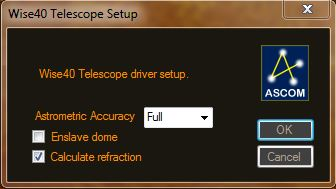
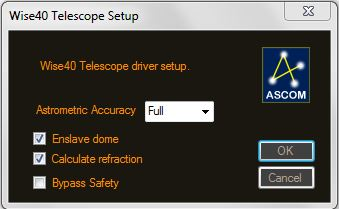
Added telescope safety bypass

diff --git a/Telescope/SetupDialogForm.designer.cs b/Telescope/SetupDialogForm.designer.cs
@@ -30,6 +30,7 @@ namespace ASCOM.Wise40 //.Telescope
         /// </summary>
         private void InitializeComponent()
         {
+            this.components = new System.ComponentModel.Container();
             this.cmdOK = new System.Windows.Forms.Button();
             this.cmdCancel = new System.Windows.Forms.Button();
             this.descriptionLabel = new System.Windows.Forms.Label();
@@ -38,6 +39,8 @@ namespace ASCOM.Wise40 //.Telescope
             this.acuracyLabel = new System.Windows.Forms.Label();
             this.checkBoxEnslaveDome = new System.Windows.Forms.CheckBox();
             this.checkBoxCalculateRefraction = new System.Windows.Forms.CheckBox();
+            this.checkBoxBypassSafety = new System.Windows.Forms.CheckBox();
+            this.toolTip1 = new System.Windows.Forms.ToolTip(this.components);
             ((System.ComponentModel.ISupportInitialize)(this.picASCOM)).BeginInit();
             this.SuspendLayout();
             // 
@@ -47,7 +50,7 @@ namespace ASCOM.Wise40 //.Telescope
             this.cmdOK.BackColor = System.Drawing.Color.FromArgb(((int)(((byte)(64)))), ((int)(((byte)(64)))), ((int)(((byte)(64)))));
             this.cmdOK.DialogResult = System.Windows.Forms.DialogResult.OK;
             this.cmdOK.ForeColor = System.Drawing.Color.FromArgb(((int)(((byte)(176)))), ((int)(((byte)(161)))), ((int)(((byte)(142)))));
-            this.cmdOK.Location = new System.Drawing.Point(248, 89);
+            this.cmdOK.Location = new System.Drawing.Point(248, 108);
             this.cmdOK.Name = "cmdOK";
             this.cmdOK.Size = new System.Drawing.Size(59, 24);
             this.cmdOK.TabIndex = 0;
@@ -61,7 +64,7 @@ namespace ASCOM.Wise40 //.Telescope
             this.cmdCancel.BackColor = System.Drawing.Color.FromArgb(((int)(((byte)(64)))), ((int)(((byte)(64)))), ((int)(((byte)(64)))));
             this.cmdCancel.DialogResult = System.Windows.Forms.DialogResult.Cancel;
             this.cmdCancel.ForeColor = System.Drawing.Color.FromArgb(((int)(((byte)(176)))), ((int)(((byte)(161)))), ((int)(((byte)(142)))));
-            this.cmdCancel.Location = new System.Drawing.Point(248, 115);
+            this.cmdCancel.Location = new System.Drawing.Point(248, 134);
             this.cmdCancel.Name = "cmdCancel";
             this.cmdCancel.Size = new System.Drawing.Size(59, 25);
             this.cmdCancel.TabIndex = 1;
@@ -71,7 +74,7 @@ namespace ASCOM.Wise40 //.Telescope
             // 
             // descriptionLabel
             // 
-            this.descriptionLabel.Location = new System.Drawing.Point(24, 34);
+            this.descriptionLabel.Location = new System.Drawing.Point(24, 24);
             this.descriptionLabel.Name = "descriptionLabel";
             this.descriptionLabel.Size = new System.Drawing.Size(165, 20);
             this.descriptionLabel.TabIndex = 2;
@@ -98,7 +101,7 @@ namespace ASCOM.Wise40 //.Telescope
             this.accuracyBox.Items.AddRange(new object[] {
             "Full",
             "Reduced"});
-            this.accuracyBox.Location = new System.Drawing.Point(136, 78);
+            this.accuracyBox.Location = new System.Drawing.Point(136, 70);
             this.accuracyBox.Name = "accuracyBox";
             this.accuracyBox.Size = new System.Drawing.Size(69, 21);
             this.accuracyBox.TabIndex = 8;
@@ -107,7 +110,7 @@ namespace ASCOM.Wise40 //.Telescope
             // acuracyLabel
             // 
             this.acuracyLabel.AutoSize = true;
-            this.acuracyLabel.Location = new System.Drawing.Point(24, 80);
+            this.acuracyLabel.Location = new System.Drawing.Point(24, 72);
             this.acuracyLabel.Name = "acuracyLabel";
             this.acuracyLabel.Size = new System.Drawing.Size(107, 13);
             this.acuracyLabel.TabIndex = 10;
@@ -135,12 +138,24 @@ namespace ASCOM.Wise40 //.Telescope
             this.checkBoxCalculateRefraction.Text = "Calculate refraction";
             this.checkBoxCalculateRefraction.UseVisualStyleBackColor = true;
             // 
+            // checkBoxBypassSafety
+            // 
+            this.checkBoxBypassSafety.AutoSize = true;
+            this.checkBoxBypassSafety.Location = new System.Drawing.Point(24, 144);
+            this.checkBoxBypassSafety.Name = "checkBoxBypassSafety";
+            this.checkBoxBypassSafety.Size = new System.Drawing.Size(93, 17);
+            this.checkBoxBypassSafety.TabIndex = 16;
+            this.checkBoxBypassSafety.Text = "Bypass Safety";
+            this.toolTip1.SetToolTip(this.checkBoxBypassSafety, "Dangerous!!!  Telescope will not perform safety checks!");
+            this.checkBoxBypassSafety.UseVisualStyleBackColor = true;
+            // 
             // TelescopeSetupDialogForm
             // 
             this.AutoScaleDimensions = new System.Drawing.SizeF(6F, 13F);
             this.AutoScaleMode = System.Windows.Forms.AutoScaleMode.Font;
             this.BackColor = System.Drawing.Color.FromArgb(((int)(((byte)(26)))), ((int)(((byte)(22)))), ((int)(((byte)(16)))));
-            this.ClientSize = new System.Drawing.Size(321, 152);
+            this.ClientSize = new System.Drawing.Size(321, 171);
+            this.Controls.Add(this.checkBoxBypassSafety);
             this.Controls.Add(this.checkBoxCalculateRefraction);
             this.Controls.Add(this.checkBoxEnslaveDome);
             this.Controls.Add(this.acuracyLabel);
@@ -173,5 +188,7 @@ namespace ASCOM.Wise40 //.Telescope
         private System.Windows.Forms.Label acuracyLabel;
         private System.Windows.Forms.CheckBox checkBoxEnslaveDome;
         private System.Windows.Forms.CheckBox checkBoxCalculateRefraction;
+        private System.Windows.Forms.CheckBox checkBoxBypassSafety;
+        private System.Windows.Forms.ToolTip toolTip1;
     }
 }

diff --git a/Telescope/WiseTele.cs b/Telescope/WiseTele.cs
@@ -2843,6 +2843,7 @@ namespace ASCOM.Wise40
                         Accuracy.Reduced;
                 _calculateRefraction = Convert.ToBoolean(driverProfile.GetValue(driverID, calculateRefractionProfileName, string.Empty, "true"));
                 _studyMotion = Convert.ToBoolean(driverProfile.GetValue(driverID, "StudyMotion", string.Empty, "false"));
+                _bypassSafety = Convert.ToBoolean(driverProfile.GetValue(driverID, "BypassSafety", string.Empty, "false"));
             }
 
             using (Profile driverProfile = new Profile())
@@ -2864,6 +2865,7 @@ namespace ASCOM.Wise40
                 driverProfile.WriteValue(driverID, astrometricAccuracyProfileName, wisesite.astrometricAccuracy == Accuracy.Full ? "Full" : "Reduced");
                 driverProfile.WriteValue(driverID, enslaveDomeProfileName, _enslaveDome.ToString());
                 driverProfile.WriteValue(driverID, calculateRefractionProfileName, _calculateRefraction.ToString());
+                driverProfile.WriteValue(driverID, "BypassSafety", _bypassSafety.ToString());
             }
 
             using (Profile driverProfile = new Profile())

diff --git a/Restore-ASCOM-Profiles/Program.cs b/Restore-ASCOM-Profiles/Program.cs
@@ -183,6 +183,7 @@ namespace Restore_ASCOM_Profiles
             string debugLevelProfileName = "DebugLevel";
             string studyMotionProfileName = "StudyMotion";
             string debugFileProfileName = "DebugFile";
+            string bypassSafetyProfileName = "BypassSafety";
             string debugFile = Const.topWise40Directory + "Logs/debug.txt";
             string refractionProfileName = "Calculate refraction";
             string minimalDomeTrackingMovementProfileName = "Minimal Dome Tracking Movement";
@@ -201,6 +202,7 @@ namespace Restore_ASCOM_Profiles
                 driverProfile.WriteValue(driverID, debugFileProfileName, debugFile);
                 driverProfile.WriteValue(driverID, refractionProfileName, mode == Mode.LCO ? false.ToString() : true.ToString());
                 driverProfile.WriteValue(driverID, minimalDomeTrackingMovementProfileName, "2.0");
+                driverProfile.WriteValue(driverID, bypassSafetyProfileName, "false");
             }
         }
 

diff --git a/Telescope/SetupDialogForm.cs b/Telescope/SetupDialogForm.cs
@@ -25,6 +25,7 @@ namespace ASCOM.Wise40 //.Telescope
             accuracyBox.SelectedItem = (wisesite.astrometricAccuracy == Accuracy.Full) ? 0 : 1;
             checkBoxEnslaveDome.Checked = wisetele._enslaveDome;
             checkBoxCalculateRefraction.Checked = wisetele._calculateRefraction;
+            checkBoxBypassSafety.Checked = wisetele.BypassSafety;
         }
 
         private void cmdOK_Click(object sender, EventArgs e) // OK button event handler
@@ -32,6 +33,7 @@ namespace ASCOM.Wise40 //.Telescope
             wisesite.astrometricAccuracy = accuracyBox.Text == "Full" ? Accuracy.Full : Accuracy.Reduced;
             wisetele._enslaveDome = checkBoxEnslaveDome.Checked;
             wisetele._calculateRefraction = checkBoxCalculateRefraction.Checked;
+            wisetele.BypassSafety = checkBoxBypassSafety.Checked;
         }
 
         private void cmdCancel_Click(object sender, EventArgs e) // Cancel button event handler

diff --git a/Telescope/SafetyMonitorTimer.cs b/Telescope/SafetyMonitorTimer.cs
@@ -83,7 +83,7 @@ namespace ASCOM.Wise40 //.Telescope
             set
             {
                 _enabled = value;
-                if (_enabled)
+                if (_enabled && !wisetele.BypassSafety)
                     _timer.Change(_dueTime, _period);
                 else
                     _timer.Change(0, 0);
